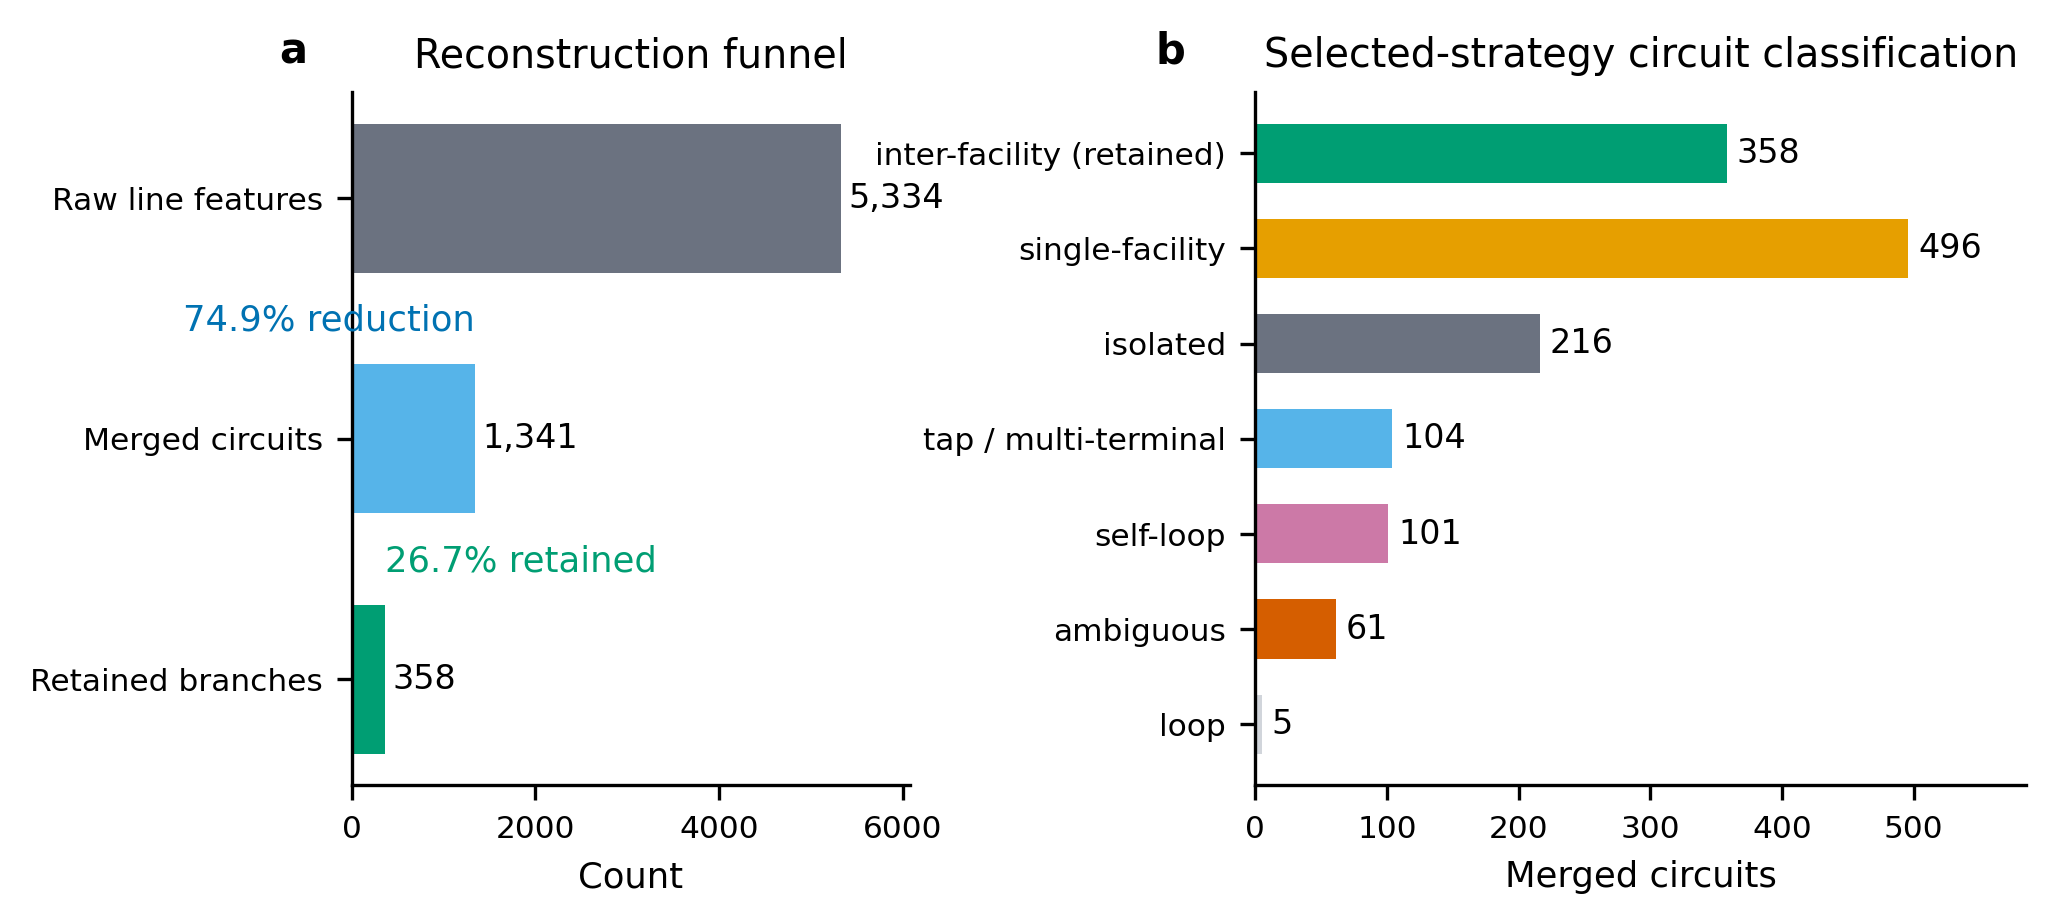
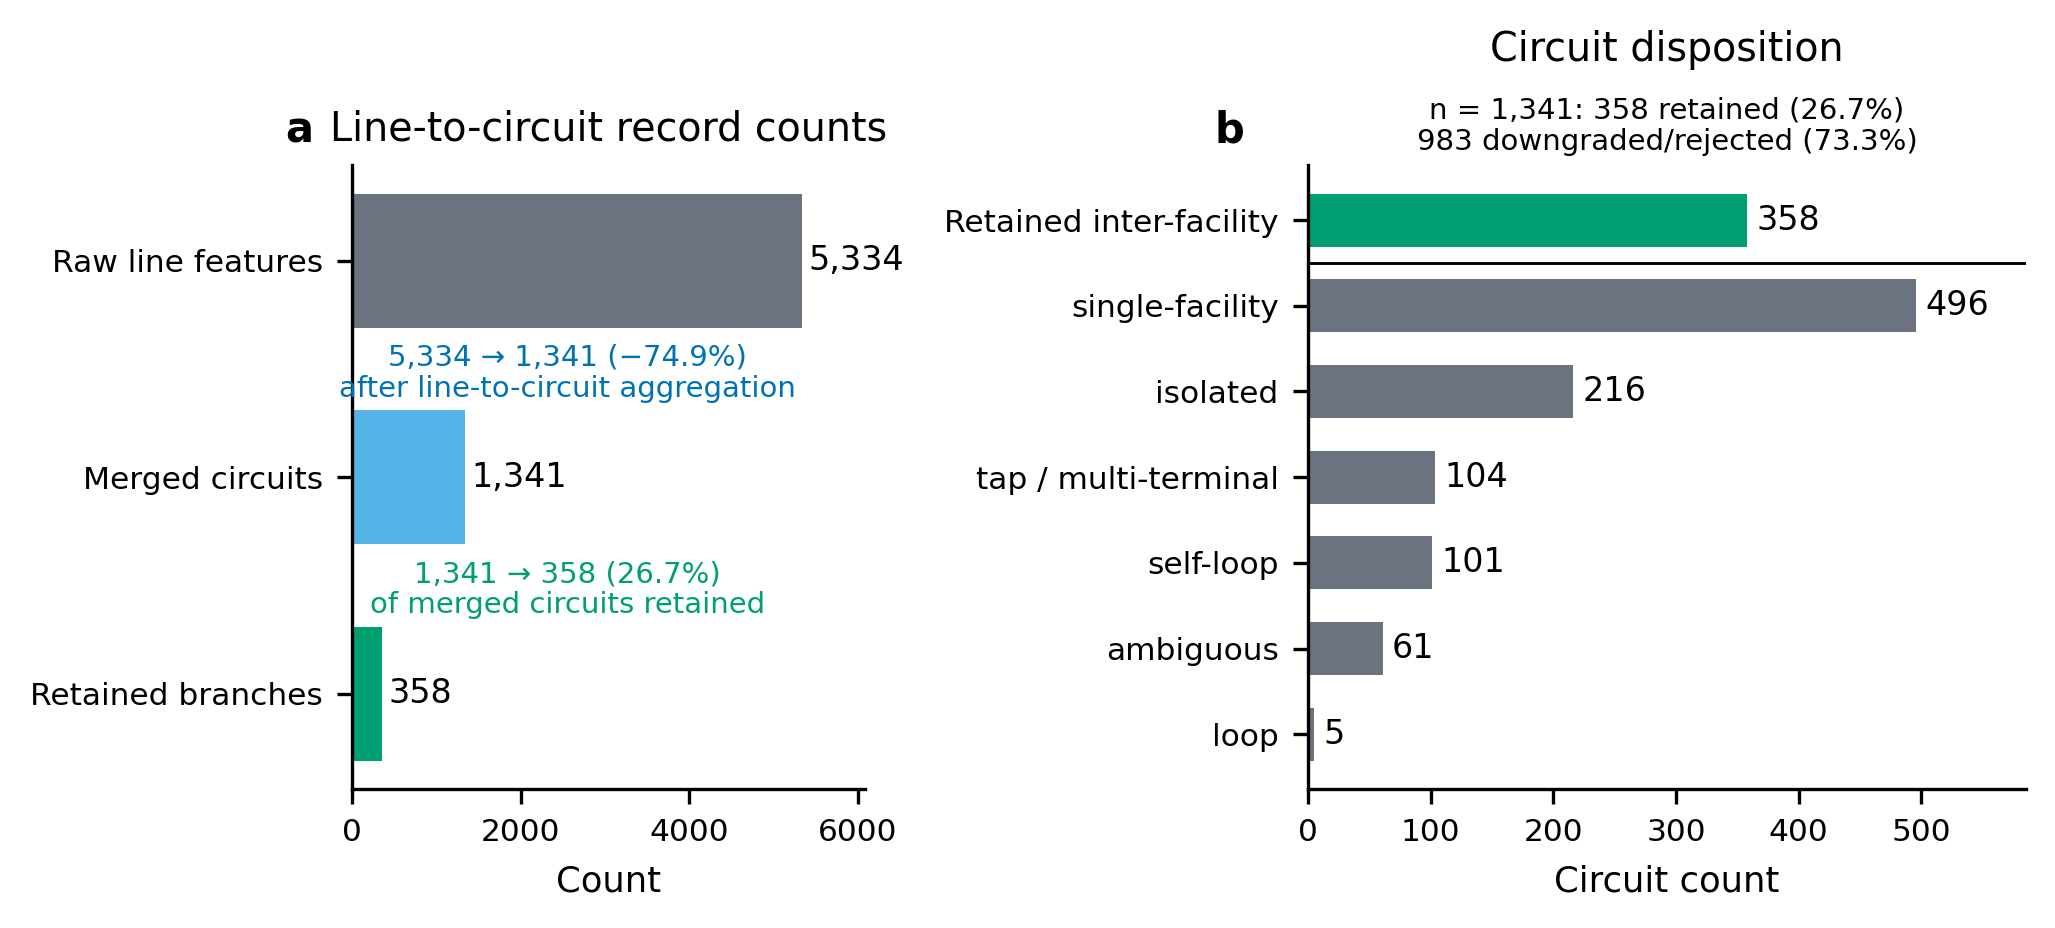
Clarify Figure 2 record disposition

diff --git a/paper/scripts/generate_quantitative_figures.py b/paper/scripts/generate_quantitative_figures.py
@@ -337,9 +337,10 @@ def figure2_reconstruction_funnel(core: Path) -> None:
     raw = int(summary["validation"]["raw_feature_count"])
     merged = int(summary["selected_strategy"]["merged_circuits"])
     retained = int(summary["selected_strategy"]["inter_facility_circuits"])
+    downgraded = merged - retained
     classes = {row["classification"]: row for row in summary["classification_summary"]}
 
-    fig, axes = plt.subplots(1, 2, figsize=(7.2, 3.0), gridspec_kw={"width_ratios": [1.05, 1.45]})
+    fig, axes = plt.subplots(1, 2, figsize=(7.2, 3.2), gridspec_kw={"width_ratios": [1.0, 1.4]})
 
     labels = ["Raw line features", "Merged circuits", "Retained branches"]
     values = [raw, merged, retained]
@@ -350,11 +351,29 @@ def figure2_reconstruction_funnel(core: Path) -> None:
     axes[0].invert_yaxis()
     axes[0].set_xlabel("Count")
     axes[0].set_xlim(0, raw * 1.14)
-    axes[0].set_title("Reconstruction funnel")
+    axes[0].set_title("Line-to-circuit record counts")
     for i, value in enumerate(values):
         axes[0].text(value + raw * 0.015, i, f"{value:,}", va="center", fontsize=8)
-    axes[0].text(merged, 0.55, f"{100 * (1 - merged / raw):.1f}% reduction", ha="right", color=COLORS["blue"])
-    axes[0].text(retained, 1.55, f"{100 * retained / merged:.1f}% retained", ha="left", color=COLORS["green"])
+    axes[0].text(
+        raw * 0.48,
+        0.52,
+        f"{raw:,} → {merged:,} (−{100 * (1 - merged / raw):.1f}%)\nafter line-to-circuit aggregation",
+        ha="center",
+        va="center",
+        fontsize=7.0,
+        color=COLORS["blue"],
+        linespacing=1.15,
+    )
+    axes[0].text(
+        raw * 0.48,
+        1.52,
+        f"{merged:,} → {retained:,} ({100 * retained / merged:.1f}%)\nof merged circuits retained",
+        ha="center",
+        va="center",
+        fontsize=7.0,
+        color=COLORS["green"],
+        linespacing=1.15,
+    )
     panel_label(axes[0], "a")
 
     order = [
@@ -367,20 +386,32 @@ def figure2_reconstruction_funnel(core: Path) -> None:
         "loop",
     ]
     counts = [int(classes[k]["circuit_count"]) for k in order]
-    display = [x.replace("inter-facility", "inter-facility (retained)") for x in order]
-    bar_colors = [COLORS["green"], COLORS["orange"], COLORS["gray"], COLORS["sky"], COLORS["purple"], COLORS["red"], COLORS["light_gray"]]
+    display = ["Retained inter-facility", *order[1:]]
+    bar_colors = [COLORS["green"], *([COLORS["gray"]] * (len(order) - 1))]
     y = np.arange(len(order))
     axes[1].barh(y, counts, color=bar_colors, height=0.62)
     axes[1].set_yticks(y, display)
     axes[1].invert_yaxis()
-    axes[1].set_xlabel("Merged circuits")
+    axes[1].set_xlabel("Circuit count")
     axes[1].set_xlim(0, max(counts) * 1.18)
-    axes[1].set_title("Selected-strategy circuit classification")
+    axes[1].set_title("Circuit disposition", pad=25)
+    axes[1].text(
+        0.5,
+        1.015,
+        f"n = {merged:,}: {retained:,} retained ({100 * retained / merged:.1f}%)\n"
+        f"{downgraded:,} downgraded/rejected ({100 * downgraded / merged:.1f}%)",
+        transform=axes[1].transAxes,
+        ha="center",
+        va="bottom",
+        fontsize=7.0,
+        linespacing=1.15,
+    )
+    axes[1].axhline(0.5, color="black", linewidth=0.7)
     for i, value in enumerate(counts):
         axes[1].text(value + max(counts) * 0.015, i, f"{value:,}", va="center", fontsize=8)
     panel_label(axes[1], "b")
 
-    fig.subplots_adjust(wspace=0.52)
+    fig.subplots_adjust(wspace=0.72, top=0.82, bottom=0.17)
     save(fig, "fig2_reconstruction_funnel")
 
 

diff --git a/paper/main_scidata.tex b/paper/main_scidata.tex
@@ -236,7 +236,7 @@ For the selected setting, the release accounts for all 1,341 reconstructed circu
 \begin{figure}[t]
   \centering
   \includegraphics[width=\textwidth]{fig2_reconstruction_funnel.pdf}
-  \caption{Record disposition for the selected reconstruction setting. The workflow processes 5,334 source line features into 1,341 circuit candidates, retains 358 inter-facility candidate branches, and preserves downgraded classes in the ledger. Retention denotes rule satisfaction under the documented workflow, not operator confirmation.}
+  \caption{Line-to-circuit record counts and circuit disposition for the selected reconstruction setting. Panel~a distinguishes the 74.9\% reduction in record count after aggregating 5,334 source line features into 1,341 merged circuits from the subsequent retention of 358/1,341 circuits (26.7\%). Panel~b shows the retained inter-facility class in green and the six downgraded or rejected reason classes in gray; the displayed counts reconcile as $358+983=1{,}341$. Retention denotes rule satisfaction under the documented workflow, not operator confirmation.}
   \label{fig:funnel}
 \end{figure}
 

diff --git a/paper/scripts/build_figure_manifest.py b/paper/scripts/build_figure_manifest.py
@@ -41,7 +41,7 @@ FIGURES = [
         "generator": "paper/scripts/generate_quantitative_figures.py",
         "stem": "fig2_reconstruction_funnel",
         "width": "double-column",
-        "caption": "Reconstruction funnel and circuit disposition for the selected node-set B, 100 m facility-buffer, 0.5 m endpoint-snap, voltage-status-aware strategy. Counts describe pipeline outputs from the current E-REDES snapshot; retained means passing declared geometric rules, not operator validation.",
+        "caption": "Line-to-circuit record counts and complete circuit disposition for the selected node-set B, 100 m facility-buffer, 0.5 m endpoint-snap, voltage-status-aware strategy. Panel a states both denominators: line-to-circuit aggregation changes the record count from 5,334 to 1,341, after which 358 of 1,341 merged circuits are retained. Panel b shows the retained class in green and all six downgraded/rejected reason classes in gray; their counts reconcile as 358 + 983 = 1,341. Retained means passing declared geometric rules, not operator validation.",
         "uncertainty": "Counts are deterministic for the snapshot but classifications depend on facility coverage and thresholds.",
         "provenance_notes": "Generated directly from the topology summary; no geographic identifiers are plotted.",
         "license_status": "cc_by_4_0_eredes_attribution_required",

diff --git a/paper/TASKLIST.MD b/paper/TASKLIST.MD
@@ -448,6 +448,7 @@ These tasks require new evidence and materially broader claims. They are not req
 - [x] Move repeat-acquisition and projection-comparison results from Methods to a dedicated Technical Validation subsection.
 - [x] Regenerate Figure 1 with Matplotlib from frozen v1.0.2 JSON, using the same academic style and export pipeline as Figures 2–4.
 - [x] Place the 216-setting parameter sweep and documented configuration selection before the retention gate; route OSM-derived public evidence only into validation.
+- [x] Revise Figure 2 to state percentage denominators, reconcile 358 retained plus 983 downgraded/rejected circuits, and use a consistent retained-versus-non-retained color hierarchy.
 - [x] Reconcile the Data Record archive inventory to 67 documented files and the 500 m sensitivity result to 368 retained branches.
 - [x] Confirm from the v1.0.2 spatial-control summary that corridor evidence changes from 290/358 real branches to 1/358 displaced branches.
 - [x] Freeze source commit `93c861c` and create annotated tag `pt60-candidate-v1.0.2`.